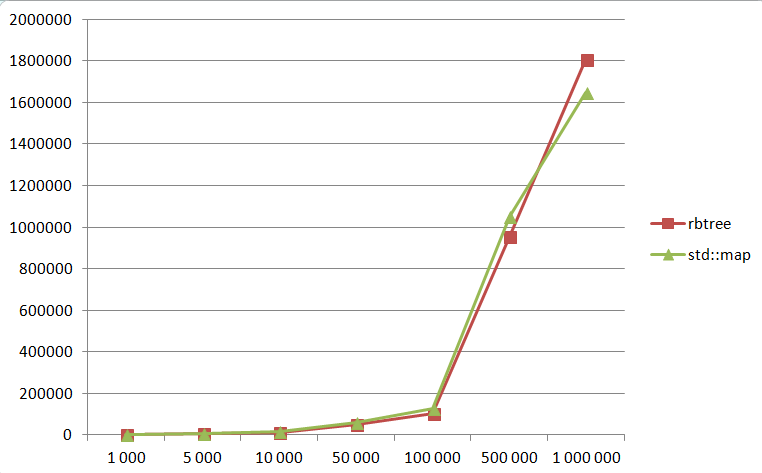
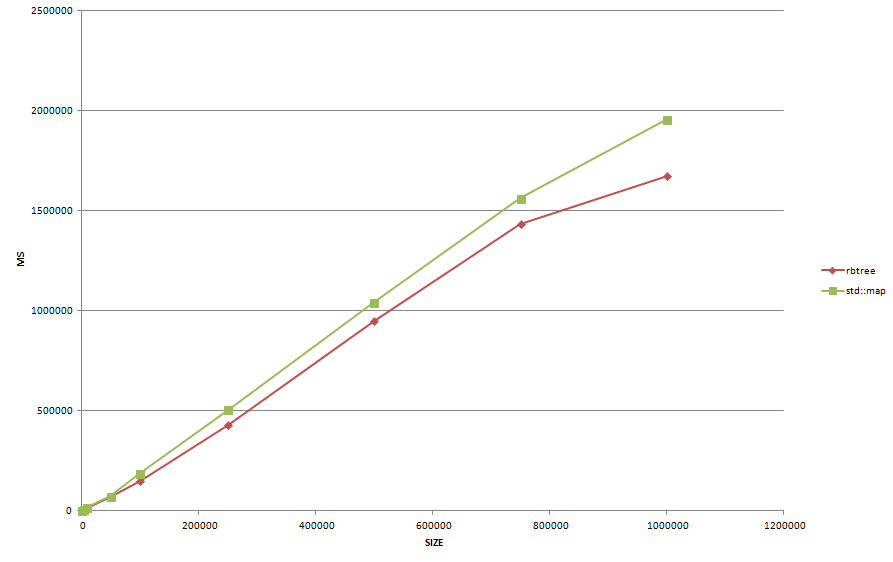
Изменил тест, исправил график

diff --git a/LibraryCPPClass/Tests/RBTree.cpp b/LibraryCPPClass/Tests/RBTree.cpp
@@ -71,6 +71,50 @@ void test_10000() {
     cout << "10000 elements test passed" << endl;
 }
 
+void test_100000() {
+    RBTree t;
+    string value;
+
+    for (int i = 0; i < 100000; i++) {
+        t.insert("key_" + to_string(i), "val_" + to_string(i));
+    }
+    check(t.size() == 100000, "size 100000");
+
+    for (int i = 0; i < 100000; i = i + 1000) {
+        check(t.find("key_" + to_string(i), value), "find key_" + to_string(i));
+        check(value == "val_" + to_string(i), "val_" + to_string(i) + " correct");
+    }
+
+    for (int i = 0; i < 100000; i++) {
+        t.remove("key_" + to_string(i));
+    }
+    check(t.size() == 0, "empty after remove 100000");
+
+    cout << "100000 elements test passed" << endl;
+}
+
+void test_1000000() {
+    RBTree t;
+    string value;
+
+    for (int i = 0; i < 1000000; i++) {
+        t.insert("m" + to_string(i), "value" + to_string(i));
+    }
+    check(t.size() == 1000000, "size 1000000");
+
+    for (int i = 0; i < 1000; i++) {
+        check(t.find("m" + to_string(i * 1000), value), "find m" + to_string(i * 1000));
+        check(value == "value" + to_string(i * 1000), "value" + to_string(i * 1000) + " correct");
+    }
+
+    for (int i = 0; i < 1000000; i++) {
+        t.remove("m" + to_string(i));
+    }
+    check(t.size() == 0, "empty after remove 1000000");
+
+    cout << "1000000 elements test passed" << endl;
+}
+
 void test_updates() {
     RBTree t;
     string value;
@@ -117,6 +161,8 @@ int main() {
     test_updates();
     test_1000();
     test_10000();
+    test_100000();
+    test_1000000();
     test_mixed();
 
     cout << "\nAll tests passed!" << endl;
